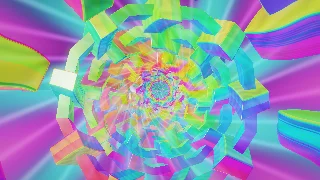
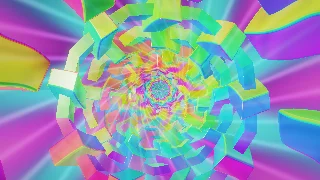
Refine Recursive Chrome raymarching and gear detail

diff --git a/src/modules/RecursiveChromeModule.ts b/src/modules/RecursiveChromeModule.ts
@@ -15,7 +15,10 @@ vec2 sculpture(vec3 p){
  float a=atan(p.y,p.x),r=length(p.xy);
  float sector=2.*PI/uDensity;
  float folded=mod(a+sector*.5,sector)-sector*.5;
- float band=fft(fract(a/(2.*PI)+.5));
+ // One spectrum value per tooth keeps its end face planar. Sampling FFT
+ // continuously across a face creates tiny, steep steps that tear under motion.
+ float toothIndex=floor((a+sector*.5)/sector);
+ float band=fft(.5+.45*sin(toothIndex*sector));
  // Flat-sided gear frames and beveled rectangular teeth avoid rounded lobes.
  float radius=2.25-uBass*.3-uKick*.22;
  float polygon=r*cos(folded);
@@ -24,7 +27,7 @@ vec2 sculpture(vec3 p){
  q.xz=rot(sin(uTime+slice)*.25+uKick*.55+band*.5)*q.xz;
  vec3 box=abs(q)-vec3(.38+band*.38,.14+uTreble*.12,.32+uKick*.23);
  float tooth=length(max(box,0.))+min(max(box.x,max(box.y,box.z)),0.)-.035;
- return vec2(min(ring,tooth),slice+floor(a/sector));
+ return vec2(min(ring,tooth),slice+toothIndex);
 }
 void main(){
  vec2 uv=(vUv-.5)*vec2(uResolution.x/uResolution.y,1.);
@@ -35,11 +38,18 @@ void main(){
  vec3 ro=vec3((.3+uBass*.2)*sin(uTime*.53),(.26+uMid*.18)*cos(uTime*.41),uDrive*1.6);
  vec3 rd=normalize(vec3(uv,1.05+uBass*.18+uKick*.16));
  float travel=0.; vec2 hit=vec2(1.); vec3 p=ro;
- for(int i=0;i<72;i++){
+ float tolerance=.002;
+ for(int i=0;i<112;i++){
   p=ro+rd*travel;
   hit=sculpture(p);
-  if(hit.x<.003 || travel>26.)break;
-  travel+=max(hit.x*.7,.002);
+  tolerance=max(.002,travel*.35/uResolution.y);
+  if(hit.x<tolerance || travel>26.)break;
+  // The repeated slice changes orientation at its boundary. Never step past
+  // that boundary using the previous slice's distance estimate.
+  float localZ=mod(p.z+1.2,2.4)-1.2;
+  float boundary=(1.2-localZ)/max(rd.z,.001);
+  float conservative=hit.x/(2.+uWarp*(1.+uMid+uKick));
+  travel+=max(min(conservative,boundary+.001),.0005);
  }
  // A second, analytic tunnel fills misses and the vanishing point with moving detail.
  // Clamping radius avoids singularities at the center without a black end cap.
@@ -50,7 +60,7 @@ void main(){
  vec3 backdrop=palette(uHue+depth*.09+weave*.16+uTime*.045)
    *(.18+lanes*.28+filigree*(.12+uTreble*.65)+spectrum*.65);
  vec3 col=backdrop;
- if(hit.x<.006 && travel<26.){
+ if(hit.x<tolerance && travel<26.){
   vec2 e=vec2(.004,0.);
   vec3 n=normalize(vec3(sculpture(p+e.xyy).x-sculpture(p-e.xyy).x,
    sculpture(p+e.yxy).x-sculpture(p-e.yxy).x,
@@ -62,7 +72,8 @@ void main(){
   float diffuse=max(dot(n,normalize(vec3(-.5,.8,-.7))),0.);
   float spec=pow(max(dot(reflected,normalize(vec3(-.4,.7,-1.))),0.),38.);
   float fresnel=pow(1.-max(dot(n,-rd),0.),2.);
-  float etching=.5+.5*sin(p.z*32.+atan(p.y,p.x)*24.+sin(p.x*12.)*2.);
+  float engrave=p.z*32.+atan(p.y,p.x)*24.+sin(p.x*12.)*2.;
+  float etching=.5+.5*sin(engrave)*exp(-fwidth(engrave)*.7);
   col=enamel*(.28+diffuse*.8+bands*.55)*( .65+.35*etching)
    +vec3(1.,.9,.7)*spec*1.4+pow(palette(hue+.2),vec3(2.))*fresnel*.3;
   col=mix(col,backdrop,1.-exp(-travel*.045));

diff --git a/README.md b/README.md
@@ -67,4 +67,4 @@ Aurora ribbons layers flowing spectral curtains; Prismatic drift flies through t
 
 Evolving Atmosphere blends slowly shifting plasma, spectral ribbons, elliptical tunnel rings and petal folds with seeded orbital particles. Kicks launch expanding shockwaves and push particles outward; treble stretches their trails. Speed, intensity, hue, warp, evolution and particle strength are adjustable. Enable ambient for motion during silence. Timestamp-based variation and rewind resets make repeated offline exports reproducible.
 
-Recursive Chrome travels through a corridor of polygonal rainbow metal frames and interlocking beveled gear teeth, inspired by the dense glossy repetition in the supplied visual reference. Bass contracts the corridor, individual FFT bands extend its gear teeth, and kicks snap their tilt and accelerate travel. A flowing spectral backdrop fills the gaps. Speed, intensity, hue, warp and symmetry are adjustable. It uses the shared HDR, overlay and export pipeline with a bounded 72-step raymarcher.
+Recursive Chrome travels through a corridor of polygonal rainbow metal frames and interlocking beveled gear teeth, inspired by the dense glossy repetition in the supplied visual reference. Bass contracts the corridor, individual FFT bands extend its gear teeth, and kicks snap their tilt and accelerate travel. A flowing spectral backdrop fills the gaps. Speed, intensity, hue, warp and symmetry are adjustable. It uses the shared HDR, overlay and export pipeline with a bounded 112-step raymarcher.
